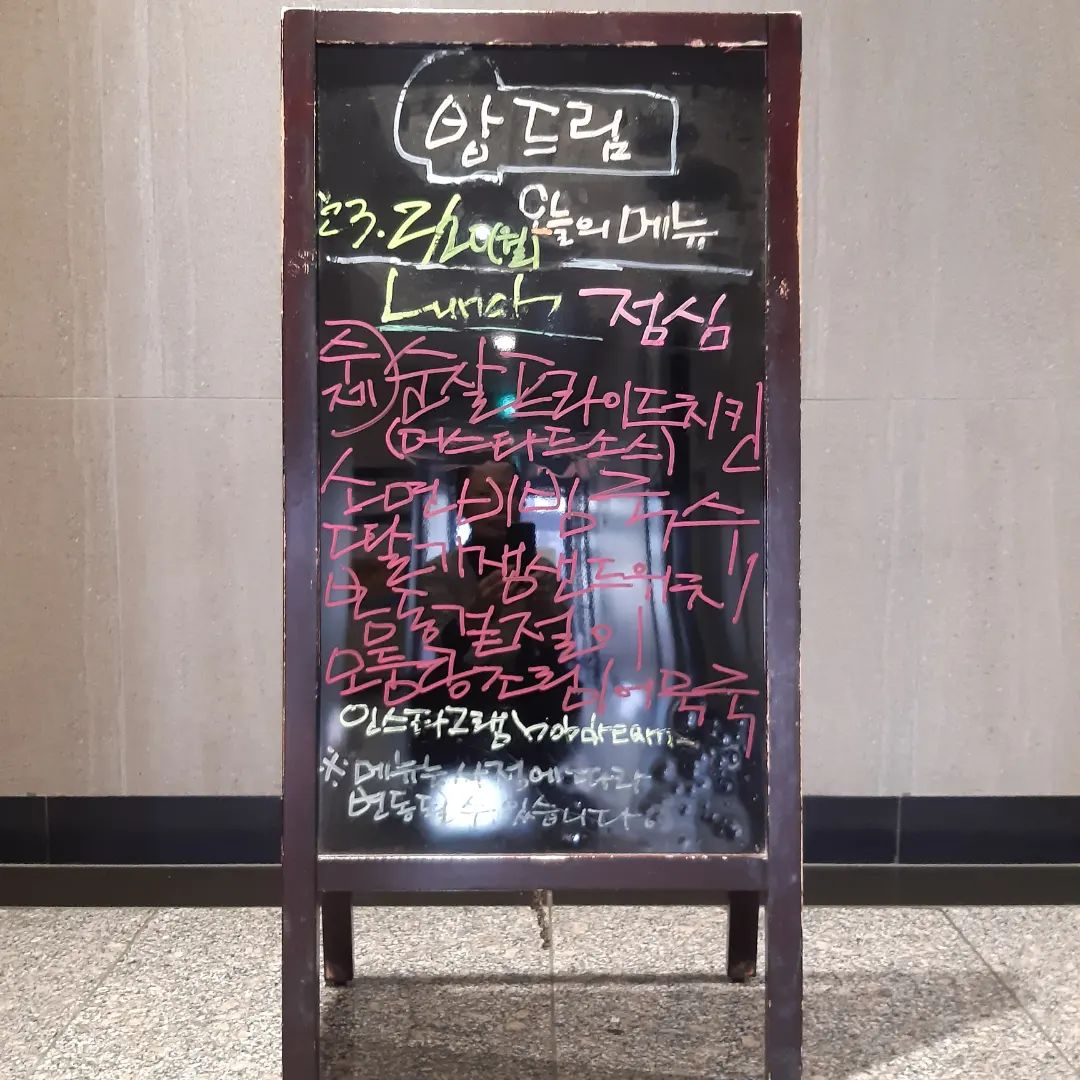
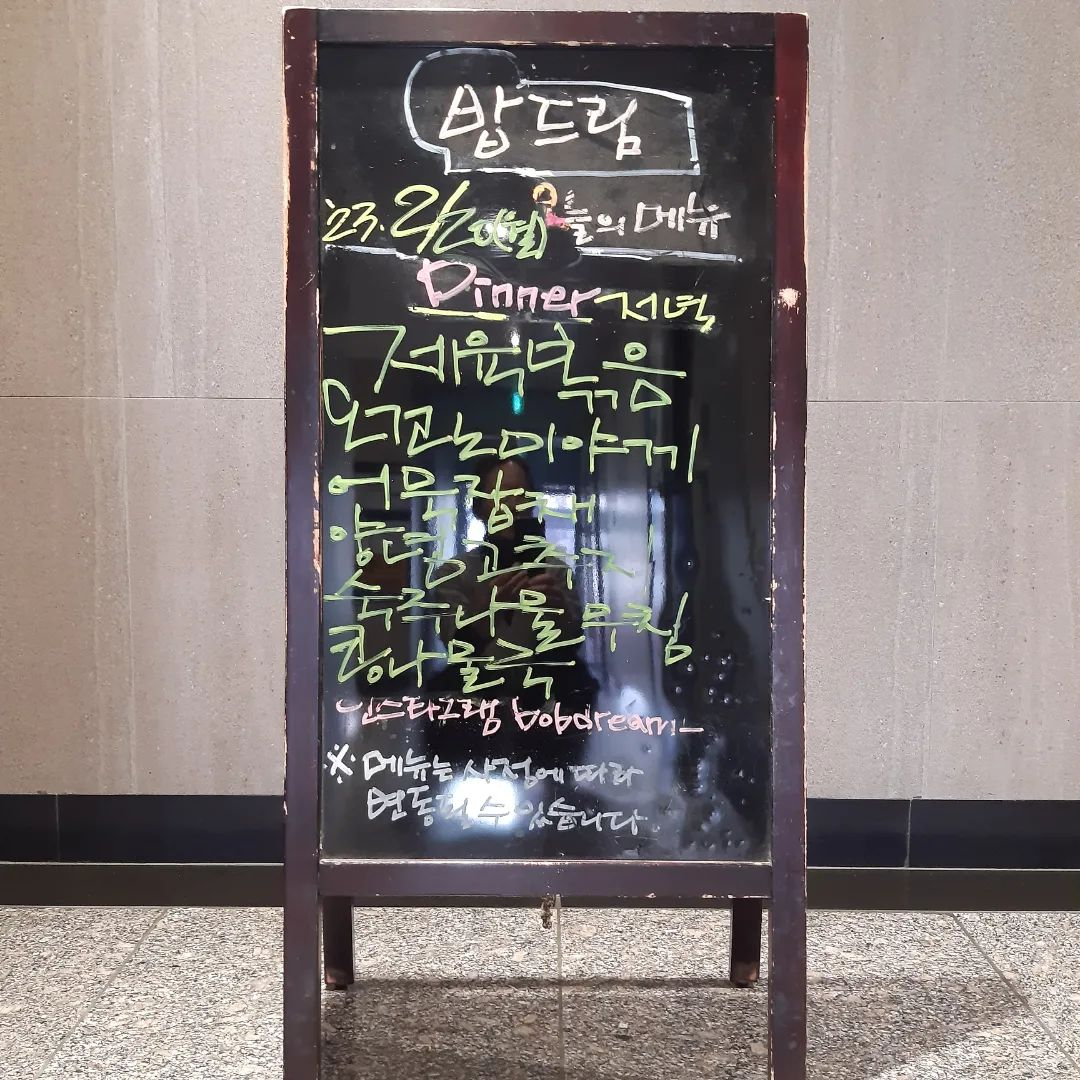
auto push

Changed region(s): [[0.0, 0.0, 1.0, 1.0], [0.0306, 0.7333, 0.0611, 0.7639]]

diff --git a/server/dreamtodaymenu.html b/server/dreamtodaymenu.html
@@ -1,1 +1,1 @@
-<h1 class="_aacl _aaco _aacu _aacx _aad7 _aade">2023.2.20 월요일 점심 메뉴🍚<br>🔸수제 순살프라이드치킨(머스타드소스)<br>🔸소면비빔국수 <br>🔸딸기잼샌드위치 <br>🔸봄동겉절이 <br>🔸모둠콩조림 <br>🔸어묵국 <br><br><a class="x1i10hfl xjbqb8w x6umtig x1b1mbwd xaqea5y xav7gou x9f619 x1ypdohk xt0psk2 xe8uvvx xdj266r x11i5rnm xat24cr x1mh8g0r xexx8yu x4uap5 x18d9i69 xkhd6sd x16tdsg8 x1hl2dhg xggy1nq x1a2a7pz  _aa9_ _a6hd" href="/explore/tags/food/" role="link" tabindex="0">#food</a><a class="x1i10hfl xjbqb8w x6umtig x1b1mbwd xaqea5y xav7gou x9f619 x1ypdohk xt0psk2 xe8uvvx xdj266r x11i5rnm xat24cr x1mh8g0r xexx8yu x4uap5 x18d9i69 xkhd6sd x16tdsg8 x1hl2dhg xggy1nq x1a2a7pz  _aa9_ _a6hd" href="/explore/tags/koreanfood/" role="link" tabindex="0">#koreanfood</a><a class="x1i10hfl xjbqb8w x6umtig x1b1mbwd xaqea5y xav7gou x9f619 x1ypdohk xt0psk2 xe8uvvx xdj266r x11i5rnm xat24cr x1mh8g0r xexx8yu x4uap5 x18d9i69 xkhd6sd x16tdsg8 x1hl2dhg xggy1nq x1a2a7pz  _aa9_ _a6hd" href="/explore/tags/buffet/" role="link" tabindex="0">#buffet</a><a class="x1i10hfl xjbqb8w x6umtig x1b1mbwd xaqea5y xav7gou x9f619 x1ypdohk xt0psk2 xe8uvvx xdj266r x11i5rnm xat24cr x1mh8g0r xexx8yu x4uap5 x18d9i69 xkhd6sd x16tdsg8 x1hl2dhg xggy1nq x1a2a7pz  _aa9_ _a6hd" href="/explore/tags/%EB%B0%A5%EB%93%9C%EB%A6%BC/" role="link" tabindex="0">#밥드림</a><a class="x1i10hfl xjbqb8w x6umtig x1b1mbwd xaqea5y xav7gou x9f619 x1ypdohk xt0psk2 xe8uvvx xdj266r x11i5rnm xat24cr x1mh8g0r xexx8yu x4uap5 x18d9i69 xkhd6sd x16tdsg8 x1hl2dhg xggy1nq x1a2a7pz  _aa9_ _a6hd" href="/explore/tags/%EB%A7%9B%EC%A7%91/" role="link" tabindex="0">#맛집</a><a class="x1i10hfl xjbqb8w x6umtig x1b1mbwd xaqea5y xav7gou x9f619 x1ypdohk xt0psk2 xe8uvvx xdj266r x11i5rnm xat24cr x1mh8g0r xexx8yu x4uap5 x18d9i69 xkhd6sd x16tdsg8 x1hl2dhg xggy1nq x1a2a7pz  _aa9_ _a6hd" href="/explore/tags/%EB%85%B8%EB%9F%89%EC%A7%84/" role="link" tabindex="0">#노량진</a><a class="x1i10hfl xjbqb8w x6umtig x1b1mbwd xaqea5y xav7gou x9f619 x1ypdohk xt0psk2 xe8uvvx xdj266r x11i5rnm xat24cr x1mh8g0r xexx8yu x4uap5 x18d9i69 xkhd6sd x16tdsg8 x1hl2dhg xggy1nq x1a2a7pz  _aa9_ _a6hd" href="/explore/tags/%EB%85%B8%EB%9F%89%EC%A7%84%EB%A7%9B%EC%A7%91/" role="link" tabindex="0">#노량진맛집</a><a class="x1i10hfl xjbqb8w x6umtig x1b1mbwd xaqea5y xav7gou x9f619 x1ypdohk xt0psk2 xe8uvvx xdj266r x11i5rnm xat24cr x1mh8g0r xexx8yu x4uap5 x18d9i69 xkhd6sd x16tdsg8 x1hl2dhg xggy1nq x1a2a7pz  _aa9_ _a6hd" href="/explore/tags/%EB%85%B8%EB%9F%89%EC%A7%84%EB%A7%9B%EC%A7%91/" role="link" tabindex="0">#노량진맛집</a><a class="x1i10hfl xjbqb8w x6umtig x1b1mbwd xaqea5y xav7gou x9f619 x1ypdohk xt0psk2 xe8uvvx xdj266r x11i5rnm xat24cr x1mh8g0r xexx8yu x4uap5 x18d9i69 xkhd6sd x16tdsg8 x1hl2dhg xggy1nq x1a2a7pz  _aa9_ _a6hd" href="/explore/tags/%EC%A0%90%EC%8B%AC/" role="link" tabindex="0">#점심</a><a class="x1i10hfl xjbqb8w x6umtig x1b1mbwd xaqea5y xav7gou x9f619 x1ypdohk xt0psk2 xe8uvvx xdj266r x11i5rnm xat24cr x1mh8g0r xexx8yu x4uap5 x18d9i69 xkhd6sd x16tdsg8 x1hl2dhg xggy1nq x1a2a7pz  _aa9_ _a6hd" href="/explore/tags/%EC%A0%80%EB%85%81/" role="link" tabindex="0">#저녁</a><a class="x1i10hfl xjbqb8w x6umtig x1b1mbwd xaqea5y xav7gou x9f619 x1ypdohk xt0psk2 xe8uvvx xdj266r x11i5rnm xat24cr x1mh8g0r xexx8yu x4uap5 x18d9i69 xkhd6sd x16tdsg8 x1hl2dhg xggy1nq x1a2a7pz  _aa9_ _a6hd" href="/explore/tags/%EB%85%B8%EB%9F%89/" role="link" tabindex="0">#노량</a><a class="x1i10hfl xjbqb8w x6umtig x1b1mbwd xaqea5y xav7gou x9f619 x1ypdohk xt0psk2 xe8uvvx xdj266r x11i5rnm xat24cr x1mh8g0r xexx8yu x4uap5 x18d9i69 xkhd6sd x16tdsg8 x1hl2dhg xggy1nq x1a2a7pz  _aa9_ _a6hd" href="/explore/tags/%EA%B3%B5%EB%AC%B4%EC%9B%90/" role="link" tabindex="0">#공무원</a><a class="x1i10hfl xjbqb8w x6umtig x1b1mbwd xaqea5y xav7gou x9f619 x1ypdohk xt0psk2 xe8uvvx xdj266r x11i5rnm xat24cr x1mh8g0r xexx8yu x4uap5 x18d9i69 xkhd6sd x16tdsg8 x1hl2dhg xggy1nq x1a2a7pz  _aa9_ _a6hd" href="/explore/tags/%EA%B3%B5%EC%8B%9C/" role="link" tabindex="0">#공시</a><a class="x1i10hfl xjbqb8w x6umtig x1b1mbwd xaqea5y xav7gou x9f619 x1ypdohk xt0psk2 xe8uvvx xdj266r x11i5rnm xat24cr x1mh8g0r xexx8yu x4uap5 x18d9i69 xkhd6sd x16tdsg8 x1hl2dhg xggy1nq x1a2a7pz  _aa9_ _a6hd" href="/explore/tags/%EA%B3%B5%EC%8B%9C%EC%83%9D/" role="link" tabindex="0">#공시생</a><a class="x1i10hfl xjbqb8w x6umtig x1b1mbwd xaqea5y xav7gou x9f619 x1ypdohk xt0psk2 xe8uvvx xdj266r x11i5rnm xat24cr x1mh8g0r xexx8yu x4uap5 x18d9i69 xkhd6sd x16tdsg8 x1hl2dhg xggy1nq x1a2a7pz  _aa9_ _a6hd" href="/explore/tags/%EA%B2%BD%EC%B0%B0/" role="link" tabindex="0">#경찰</a><a class="x1i10hfl xjbqb8w x6umtig x1b1mbwd xaqea5y xav7gou x9f619 x1ypdohk xt0psk2 xe8uvvx xdj266r x11i5rnm xat24cr x1mh8g0r xexx8yu x4uap5 x18d9i69 xkhd6sd x16tdsg8 x1hl2dhg xggy1nq x1a2a7pz  _aa9_ _a6hd" href="/explore/tags/%EA%B2%BD%EC%8B%9C%EC%83%9D/" role="link" tabindex="0">#경시생</a><a class="x1i10hfl xjbqb8w x6umtig x1b1mbwd xaqea5y xav7gou x9f619 x1ypdohk xt0psk2 xe8uvvx xdj266r x11i5rnm xat24cr x1mh8g0r xexx8yu x4uap5 x18d9i69 xkhd6sd x16tdsg8 x1hl2dhg xggy1nq x1a2a7pz  _aa9_ _a6hd" href="/explore/tags/%EC%9E%84%EA%B3%A0/" role="link" tabindex="0">#임고</a><a class="x1i10hfl xjbqb8w x6umtig x1b1mbwd xaqea5y xav7gou x9f619 x1ypdohk xt0psk2 xe8uvvx xdj266r x11i5rnm xat24cr x1mh8g0r xexx8yu x4uap5 x18d9i69 xkhd6sd x16tdsg8 x1hl2dhg xggy1nq x1a2a7pz  _aa9_ _a6hd" href="/explore/tags/%EC%9E%84%EA%B3%A0%EC%83%9D/" role="link" tabindex="0">#임고생</a><a class="x1i10hfl xjbqb8w x6umtig x1b1mbwd xaqea5y xav7gou x9f619 x1ypdohk xt0psk2 xe8uvvx xdj266r x11i5rnm xat24cr x1mh8g0r xexx8yu x4uap5 x18d9i69 xkhd6sd x16tdsg8 x1hl2dhg xggy1nq x1a2a7pz  _aa9_ _a6hd" href="/explore/tags/%EC%9E%84%EC%9A%A9%EA%B3%A0%EC%8B%9C%EC%83%9D/" role="link" tabindex="0">#임용고시생</a><a class="x1i10hfl xjbqb8w x6umtig x1b1mbwd xaqea5y xav7gou x9f619 x1ypdohk xt0psk2 xe8uvvx xdj266r x11i5rnm xat24cr x1mh8g0r xexx8yu x4uap5 x18d9i69 xkhd6sd x16tdsg8 x1hl2dhg xggy1nq x1a2a7pz  _aa9_ _a6hd" href="/explore/tags/%EB%A8%B9%EC%8A%A4%ED%83%80%EA%B7%B8%EB%9E%A8/" role="link" tabindex="0">#먹스타그램</a><a class="x1i10hfl xjbqb8w x6umtig x1b1mbwd xaqea5y xav7gou x9f619 x1ypdohk xt0psk2 xe8uvvx xdj266r x11i5rnm xat24cr x1mh8g0r xexx8yu x4uap5 x18d9i69 xkhd6sd x16tdsg8 x1hl2dhg xggy1nq x1a2a7pz  _aa9_ _a6hd" href="/explore/tags/%ED%91%B8%EB%93%9C%EC%8A%A4%ED%83%80%EA%B7%B8%EB%9E%A8/" role="link" tabindex="0">#푸드스타그램</a><a class="x1i10hfl xjbqb8w x6umtig x1b1mbwd xaqea5y xav7gou x9f619 x1ypdohk xt0psk2 xe8uvvx xdj266r x11i5rnm xat24cr x1mh8g0r xexx8yu x4uap5 x18d9i69 xkhd6sd x16tdsg8 x1hl2dhg xggy1nq x1a2a7pz  _aa9_ _a6hd" href="/explore/tags/%ED%95%9C%EC%8B%9D/" role="link" tabindex="0">#한식</a><a class="x1i10hfl xjbqb8w x6umtig x1b1mbwd xaqea5y xav7gou x9f619 x1ypdohk xt0psk2 xe8uvvx xdj266r x11i5rnm xat24cr x1mh8g0r xexx8yu x4uap5 x18d9i69 xkhd6sd x16tdsg8 x1hl2dhg xggy1nq x1a2a7pz  _aa9_ _a6hd" href="/explore/tags/%EB%B7%94%ED%8E%98/" role="link" tabindex="0">#뷔페</a><a class="x1i10hfl xjbqb8w x6umtig x1b1mbwd xaqea5y xav7gou x9f619 x1ypdohk xt0psk2 xe8uvvx xdj266r x11i5rnm xat24cr x1mh8g0r xexx8yu x4uap5 x18d9i69 xkhd6sd x16tdsg8 x1hl2dhg xggy1nq x1a2a7pz  _aa9_ _a6hd" href="/explore/tags/%EB%93%9C%EB%A6%BC%ED%83%80%EC%9B%8C/" role="link" tabindex="0">#드림타워</a><a class="x1i10hfl xjbqb8w x6umtig x1b1mbwd xaqea5y xav7gou x9f619 x1ypdohk xt0psk2 xe8uvvx xdj266r x11i5rnm xat24cr x1mh8g0r xexx8yu x4uap5 x18d9i69 xkhd6sd x16tdsg8 x1hl2dhg xggy1nq x1a2a7pz  _aa9_ _a6hd" href="/explore/tags/%EB%93%9C%EB%A6%BC%ED%83%80%EC%9B%8C%EB%B7%94%ED%8E%98/" role="link" tabindex="0">#드림타워뷔페</a></h1>
+<h1 class="_aacl _aaco _aacu _aacx _aad7 _aade">2023.2.20 월요일 저녁 메뉴🍚<br>🔸제육볶음 <br>🔸오꼬노미야끼 <br>🔸어묵잡채 <br>🔸양념고추지 <br>🔸숙주나물무침 <br>🔸콩나물국 <br><br><a class="x1i10hfl xjbqb8w x6umtig x1b1mbwd xaqea5y xav7gou x9f619 x1ypdohk xt0psk2 xe8uvvx xdj266r x11i5rnm xat24cr x1mh8g0r xexx8yu x4uap5 x18d9i69 xkhd6sd x16tdsg8 x1hl2dhg xggy1nq x1a2a7pz  _aa9_ _a6hd" href="/explore/tags/food/" role="link" tabindex="0">#food</a><a class="x1i10hfl xjbqb8w x6umtig x1b1mbwd xaqea5y xav7gou x9f619 x1ypdohk xt0psk2 xe8uvvx xdj266r x11i5rnm xat24cr x1mh8g0r xexx8yu x4uap5 x18d9i69 xkhd6sd x16tdsg8 x1hl2dhg xggy1nq x1a2a7pz  _aa9_ _a6hd" href="/explore/tags/koreanfood/" role="link" tabindex="0">#koreanfood</a><a class="x1i10hfl xjbqb8w x6umtig x1b1mbwd xaqea5y xav7gou x9f619 x1ypdohk xt0psk2 xe8uvvx xdj266r x11i5rnm xat24cr x1mh8g0r xexx8yu x4uap5 x18d9i69 xkhd6sd x16tdsg8 x1hl2dhg xggy1nq x1a2a7pz  _aa9_ _a6hd" href="/explore/tags/buffet/" role="link" tabindex="0">#buffet</a><a class="x1i10hfl xjbqb8w x6umtig x1b1mbwd xaqea5y xav7gou x9f619 x1ypdohk xt0psk2 xe8uvvx xdj266r x11i5rnm xat24cr x1mh8g0r xexx8yu x4uap5 x18d9i69 xkhd6sd x16tdsg8 x1hl2dhg xggy1nq x1a2a7pz  _aa9_ _a6hd" href="/explore/tags/%EB%B0%A5%EB%93%9C%EB%A6%BC/" role="link" tabindex="0">#밥드림</a><a class="x1i10hfl xjbqb8w x6umtig x1b1mbwd xaqea5y xav7gou x9f619 x1ypdohk xt0psk2 xe8uvvx xdj266r x11i5rnm xat24cr x1mh8g0r xexx8yu x4uap5 x18d9i69 xkhd6sd x16tdsg8 x1hl2dhg xggy1nq x1a2a7pz  _aa9_ _a6hd" href="/explore/tags/%EB%A7%9B%EC%A7%91/" role="link" tabindex="0">#맛집</a><a class="x1i10hfl xjbqb8w x6umtig x1b1mbwd xaqea5y xav7gou x9f619 x1ypdohk xt0psk2 xe8uvvx xdj266r x11i5rnm xat24cr x1mh8g0r xexx8yu x4uap5 x18d9i69 xkhd6sd x16tdsg8 x1hl2dhg xggy1nq x1a2a7pz  _aa9_ _a6hd" href="/explore/tags/%EB%85%B8%EB%9F%89%EC%A7%84/" role="link" tabindex="0">#노량진</a><a class="x1i10hfl xjbqb8w x6umtig x1b1mbwd xaqea5y xav7gou x9f619 x1ypdohk xt0psk2 xe8uvvx xdj266r x11i5rnm xat24cr x1mh8g0r xexx8yu x4uap5 x18d9i69 xkhd6sd x16tdsg8 x1hl2dhg xggy1nq x1a2a7pz  _aa9_ _a6hd" href="/explore/tags/%EB%85%B8%EB%9F%89%EC%A7%84%EB%A7%9B%EC%A7%91/" role="link" tabindex="0">#노량진맛집</a><a class="x1i10hfl xjbqb8w x6umtig x1b1mbwd xaqea5y xav7gou x9f619 x1ypdohk xt0psk2 xe8uvvx xdj266r x11i5rnm xat24cr x1mh8g0r xexx8yu x4uap5 x18d9i69 xkhd6sd x16tdsg8 x1hl2dhg xggy1nq x1a2a7pz  _aa9_ _a6hd" href="/explore/tags/%EB%85%B8%EB%9F%89%EC%A7%84%EB%A7%9B%EC%A7%91/" role="link" tabindex="0">#노량진맛집</a><a class="x1i10hfl xjbqb8w x6umtig x1b1mbwd xaqea5y xav7gou x9f619 x1ypdohk xt0psk2 xe8uvvx xdj266r x11i5rnm xat24cr x1mh8g0r xexx8yu x4uap5 x18d9i69 xkhd6sd x16tdsg8 x1hl2dhg xggy1nq x1a2a7pz  _aa9_ _a6hd" href="/explore/tags/%EC%A0%90%EC%8B%AC/" role="link" tabindex="0">#점심</a><a class="x1i10hfl xjbqb8w x6umtig x1b1mbwd xaqea5y xav7gou x9f619 x1ypdohk xt0psk2 xe8uvvx xdj266r x11i5rnm xat24cr x1mh8g0r xexx8yu x4uap5 x18d9i69 xkhd6sd x16tdsg8 x1hl2dhg xggy1nq x1a2a7pz  _aa9_ _a6hd" href="/explore/tags/%EC%A0%80%EB%85%81/" role="link" tabindex="0">#저녁</a><a class="x1i10hfl xjbqb8w x6umtig x1b1mbwd xaqea5y xav7gou x9f619 x1ypdohk xt0psk2 xe8uvvx xdj266r x11i5rnm xat24cr x1mh8g0r xexx8yu x4uap5 x18d9i69 xkhd6sd x16tdsg8 x1hl2dhg xggy1nq x1a2a7pz  _aa9_ _a6hd" href="/explore/tags/%EB%85%B8%EB%9F%89/" role="link" tabindex="0">#노량</a><a class="x1i10hfl xjbqb8w x6umtig x1b1mbwd xaqea5y xav7gou x9f619 x1ypdohk xt0psk2 xe8uvvx xdj266r x11i5rnm xat24cr x1mh8g0r xexx8yu x4uap5 x18d9i69 xkhd6sd x16tdsg8 x1hl2dhg xggy1nq x1a2a7pz  _aa9_ _a6hd" href="/explore/tags/%EA%B3%B5%EB%AC%B4%EC%9B%90/" role="link" tabindex="0">#공무원</a><a class="x1i10hfl xjbqb8w x6umtig x1b1mbwd xaqea5y xav7gou x9f619 x1ypdohk xt0psk2 xe8uvvx xdj266r x11i5rnm xat24cr x1mh8g0r xexx8yu x4uap5 x18d9i69 xkhd6sd x16tdsg8 x1hl2dhg xggy1nq x1a2a7pz  _aa9_ _a6hd" href="/explore/tags/%EA%B3%B5%EC%8B%9C/" role="link" tabindex="0">#공시</a><a class="x1i10hfl xjbqb8w x6umtig x1b1mbwd xaqea5y xav7gou x9f619 x1ypdohk xt0psk2 xe8uvvx xdj266r x11i5rnm xat24cr x1mh8g0r xexx8yu x4uap5 x18d9i69 xkhd6sd x16tdsg8 x1hl2dhg xggy1nq x1a2a7pz  _aa9_ _a6hd" href="/explore/tags/%EA%B3%B5%EC%8B%9C%EC%83%9D/" role="link" tabindex="0">#공시생</a><a class="x1i10hfl xjbqb8w x6umtig x1b1mbwd xaqea5y xav7gou x9f619 x1ypdohk xt0psk2 xe8uvvx xdj266r x11i5rnm xat24cr x1mh8g0r xexx8yu x4uap5 x18d9i69 xkhd6sd x16tdsg8 x1hl2dhg xggy1nq x1a2a7pz  _aa9_ _a6hd" href="/explore/tags/%EA%B2%BD%EC%B0%B0/" role="link" tabindex="0">#경찰</a><a class="x1i10hfl xjbqb8w x6umtig x1b1mbwd xaqea5y xav7gou x9f619 x1ypdohk xt0psk2 xe8uvvx xdj266r x11i5rnm xat24cr x1mh8g0r xexx8yu x4uap5 x18d9i69 xkhd6sd x16tdsg8 x1hl2dhg xggy1nq x1a2a7pz  _aa9_ _a6hd" href="/explore/tags/%EA%B2%BD%EC%8B%9C%EC%83%9D/" role="link" tabindex="0">#경시생</a><a class="x1i10hfl xjbqb8w x6umtig x1b1mbwd xaqea5y xav7gou x9f619 x1ypdohk xt0psk2 xe8uvvx xdj266r x11i5rnm xat24cr x1mh8g0r xexx8yu x4uap5 x18d9i69 xkhd6sd x16tdsg8 x1hl2dhg xggy1nq x1a2a7pz  _aa9_ _a6hd" href="/explore/tags/%EC%9E%84%EA%B3%A0/" role="link" tabindex="0">#임고</a><a class="x1i10hfl xjbqb8w x6umtig x1b1mbwd xaqea5y xav7gou x9f619 x1ypdohk xt0psk2 xe8uvvx xdj266r x11i5rnm xat24cr x1mh8g0r xexx8yu x4uap5 x18d9i69 xkhd6sd x16tdsg8 x1hl2dhg xggy1nq x1a2a7pz  _aa9_ _a6hd" href="/explore/tags/%EC%9E%84%EA%B3%A0%EC%83%9D/" role="link" tabindex="0">#임고생</a><a class="x1i10hfl xjbqb8w x6umtig x1b1mbwd xaqea5y xav7gou x9f619 x1ypdohk xt0psk2 xe8uvvx xdj266r x11i5rnm xat24cr x1mh8g0r xexx8yu x4uap5 x18d9i69 xkhd6sd x16tdsg8 x1hl2dhg xggy1nq x1a2a7pz  _aa9_ _a6hd" href="/explore/tags/%EC%9E%84%EC%9A%A9%EA%B3%A0%EC%8B%9C%EC%83%9D/" role="link" tabindex="0">#임용고시생</a><a class="x1i10hfl xjbqb8w x6umtig x1b1mbwd xaqea5y xav7gou x9f619 x1ypdohk xt0psk2 xe8uvvx xdj266r x11i5rnm xat24cr x1mh8g0r xexx8yu x4uap5 x18d9i69 xkhd6sd x16tdsg8 x1hl2dhg xggy1nq x1a2a7pz  _aa9_ _a6hd" href="/explore/tags/%EB%A8%B9%EC%8A%A4%ED%83%80%EA%B7%B8%EB%9E%A8/" role="link" tabindex="0">#먹스타그램</a><a class="x1i10hfl xjbqb8w x6umtig x1b1mbwd xaqea5y xav7gou x9f619 x1ypdohk xt0psk2 xe8uvvx xdj266r x11i5rnm xat24cr x1mh8g0r xexx8yu x4uap5 x18d9i69 xkhd6sd x16tdsg8 x1hl2dhg xggy1nq x1a2a7pz  _aa9_ _a6hd" href="/explore/tags/%ED%91%B8%EB%93%9C%EC%8A%A4%ED%83%80%EA%B7%B8%EB%9E%A8/" role="link" tabindex="0">#푸드스타그램</a><a class="x1i10hfl xjbqb8w x6umtig x1b1mbwd xaqea5y xav7gou x9f619 x1ypdohk xt0psk2 xe8uvvx xdj266r x11i5rnm xat24cr x1mh8g0r xexx8yu x4uap5 x18d9i69 xkhd6sd x16tdsg8 x1hl2dhg xggy1nq x1a2a7pz  _aa9_ _a6hd" href="/explore/tags/%ED%95%9C%EC%8B%9D/" role="link" tabindex="0">#한식</a><a class="x1i10hfl xjbqb8w x6umtig x1b1mbwd xaqea5y xav7gou x9f619 x1ypdohk xt0psk2 xe8uvvx xdj266r x11i5rnm xat24cr x1mh8g0r xexx8yu x4uap5 x18d9i69 xkhd6sd x16tdsg8 x1hl2dhg xggy1nq x1a2a7pz  _aa9_ _a6hd" href="/explore/tags/%EB%B7%94%ED%8E%98/" role="link" tabindex="0">#뷔페</a><a class="x1i10hfl xjbqb8w x6umtig x1b1mbwd xaqea5y xav7gou x9f619 x1ypdohk xt0psk2 xe8uvvx xdj266r x11i5rnm xat24cr x1mh8g0r xexx8yu x4uap5 x18d9i69 xkhd6sd x16tdsg8 x1hl2dhg xggy1nq x1a2a7pz  _aa9_ _a6hd" href="/explore/tags/%EB%93%9C%EB%A6%BC%ED%83%80%EC%9B%8C/" role="link" tabindex="0">#드림타워</a><a class="x1i10hfl xjbqb8w x6umtig x1b1mbwd xaqea5y xav7gou x9f619 x1ypdohk xt0psk2 xe8uvvx xdj266r x11i5rnm xat24cr x1mh8g0r xexx8yu x4uap5 x18d9i69 xkhd6sd x16tdsg8 x1hl2dhg xggy1nq x1a2a7pz  _aa9_ _a6hd" href="/explore/tags/%EB%93%9C%EB%A6%BC%ED%83%80%EC%9B%8C%EB%B7%94%ED%8E%98/" role="link" tabindex="0">#드림타워뷔페</a></h1>

diff --git a/server/tong_todaymenu.html b/server/tong_todaymenu.html
@@ -1,1 +1,1 @@
-<h1 class="_aacl _aaco _aacu _aacx _aad7 _aade">💕노량진 통통이뷔페입니다💕<br><br>오늘자 2월 20일 점심메뉴가 올라왔어요😶<br>❗오늘점심메뉴❗<br>통통제육볶음<br>사누끼볶음우동<br>숙주나물무침<br>싱싱꽃상추<br>물미역초고추장<br>청포묵간장<br>씨없는청포도<br>시락된장국<br>속편한매실차입니다<br>.<br>맛있게드세요🍴<br>.<br><a class="x1i10hfl xjbqb8w x6umtig x1b1mbwd xaqea5y xav7gou x9f619 x1ypdohk xt0psk2 xe8uvvx xdj266r x11i5rnm xat24cr x1mh8g0r xexx8yu x4uap5 x18d9i69 xkhd6sd x16tdsg8 x1hl2dhg xggy1nq x1a2a7pz  _aa9_ _a6hd" href="/explore/tags/%EB%85%B8%EB%9F%89%EC%A7%84%ED%86%B5%ED%86%B5%EC%9D%B4%EB%B7%94%ED%8E%98/" role="link" tabindex="0"></h1>
+<h1 class="_aacl _aaco _aacu _aacx _aad7 _aade">💕노량진 통통이뷔페입니다💕<br>.<br>오늘자 2월 20일 저녁메뉴가 올라왔어요😶<br>❗오늘저녁메뉴❗<br>통통찜닭<br>매콤쫄면<br>새송이버섯볶음<br>미역오이초무침<br>잔멸치볶음<br>깻잎장아찌<br>달콤새콤오렌지<br>얼큰김칫국<br>속편한매실차입니다<br>.<br>맛있게드세요🍴<br>.<br><a class="x1i10hfl xjbqb8w x6umtig x1b1mbwd xaqea5y xav7gou x9f619 x1ypdohk xt0psk2 xe8uvvx xdj266r x11i5rnm xat24cr x1mh8g0r xexx8yu x4uap5 x18d9i69 xkhd6sd x16tdsg8 x1hl2dhg xggy1nq x1a2a7pz  _aa9_ _a6hd" href="/explore/tags/%EB%85%B8%EB%9F%89%EC%A7%84%ED%86%B5%ED%86%B5%EC%9D%B4%EB%B7%94%ED%8E%98/" role="link" tabindex="0"></h1>
